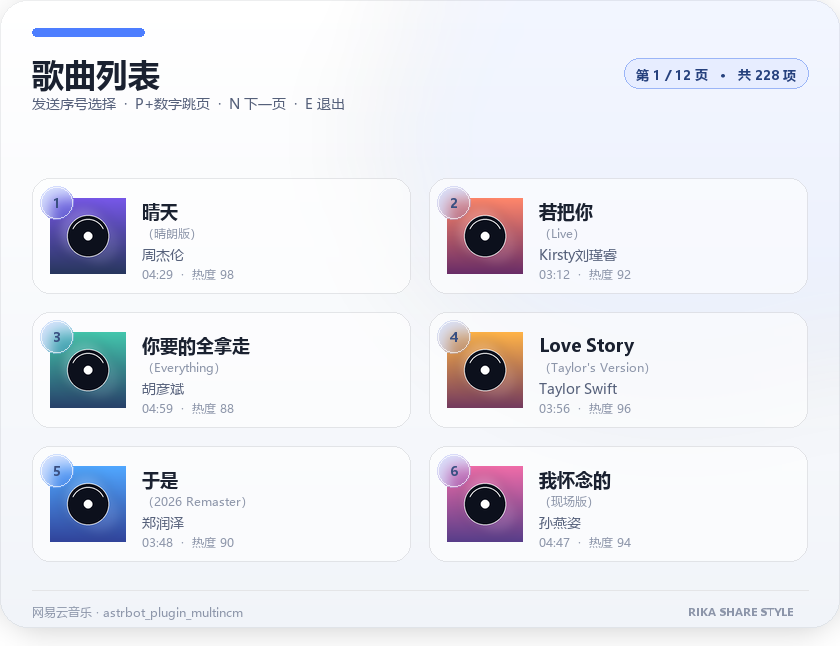
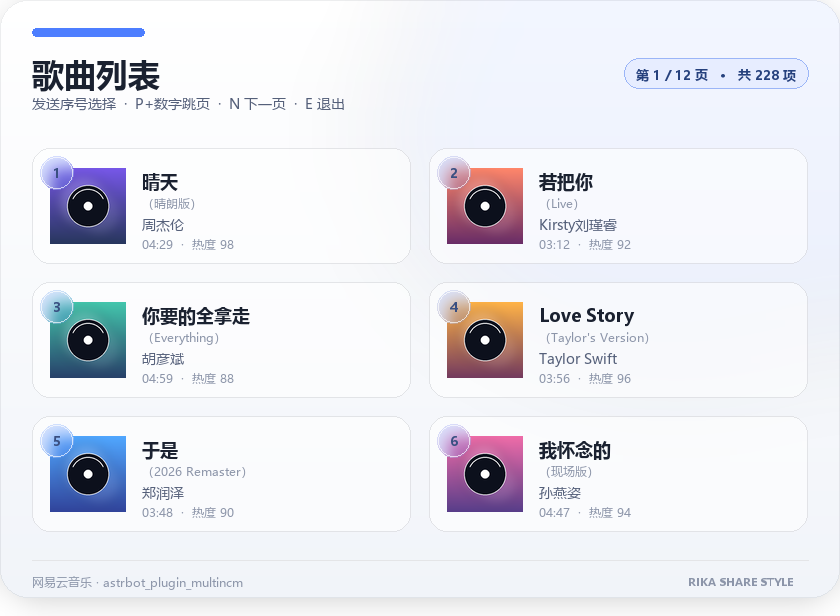
缩短边距

diff --git a/renderer.py b/renderer.py
@@ -192,7 +192,8 @@ async def render_search_list(page: "GeneralSongListPage", cards: list["ListPageC
     cols = 2
     card_w = (IMG_WIDTH - pad * 2 - gap) // cols
     rows = max(1, (len(cards) + cols - 1) // cols)
-    header_h, footer_h = 146, 66
+    # 顶部信息区保持紧凑，避免操作提示与第一行歌曲之间出现大块留白。
+    header_h, footer_h = 116, 66
     height = pad + header_h + rows * card_h + (rows - 1) * gap + footer_h
     canvas, draw = _base(IMG_WIDTH, height, th)
     accent = th.accent
